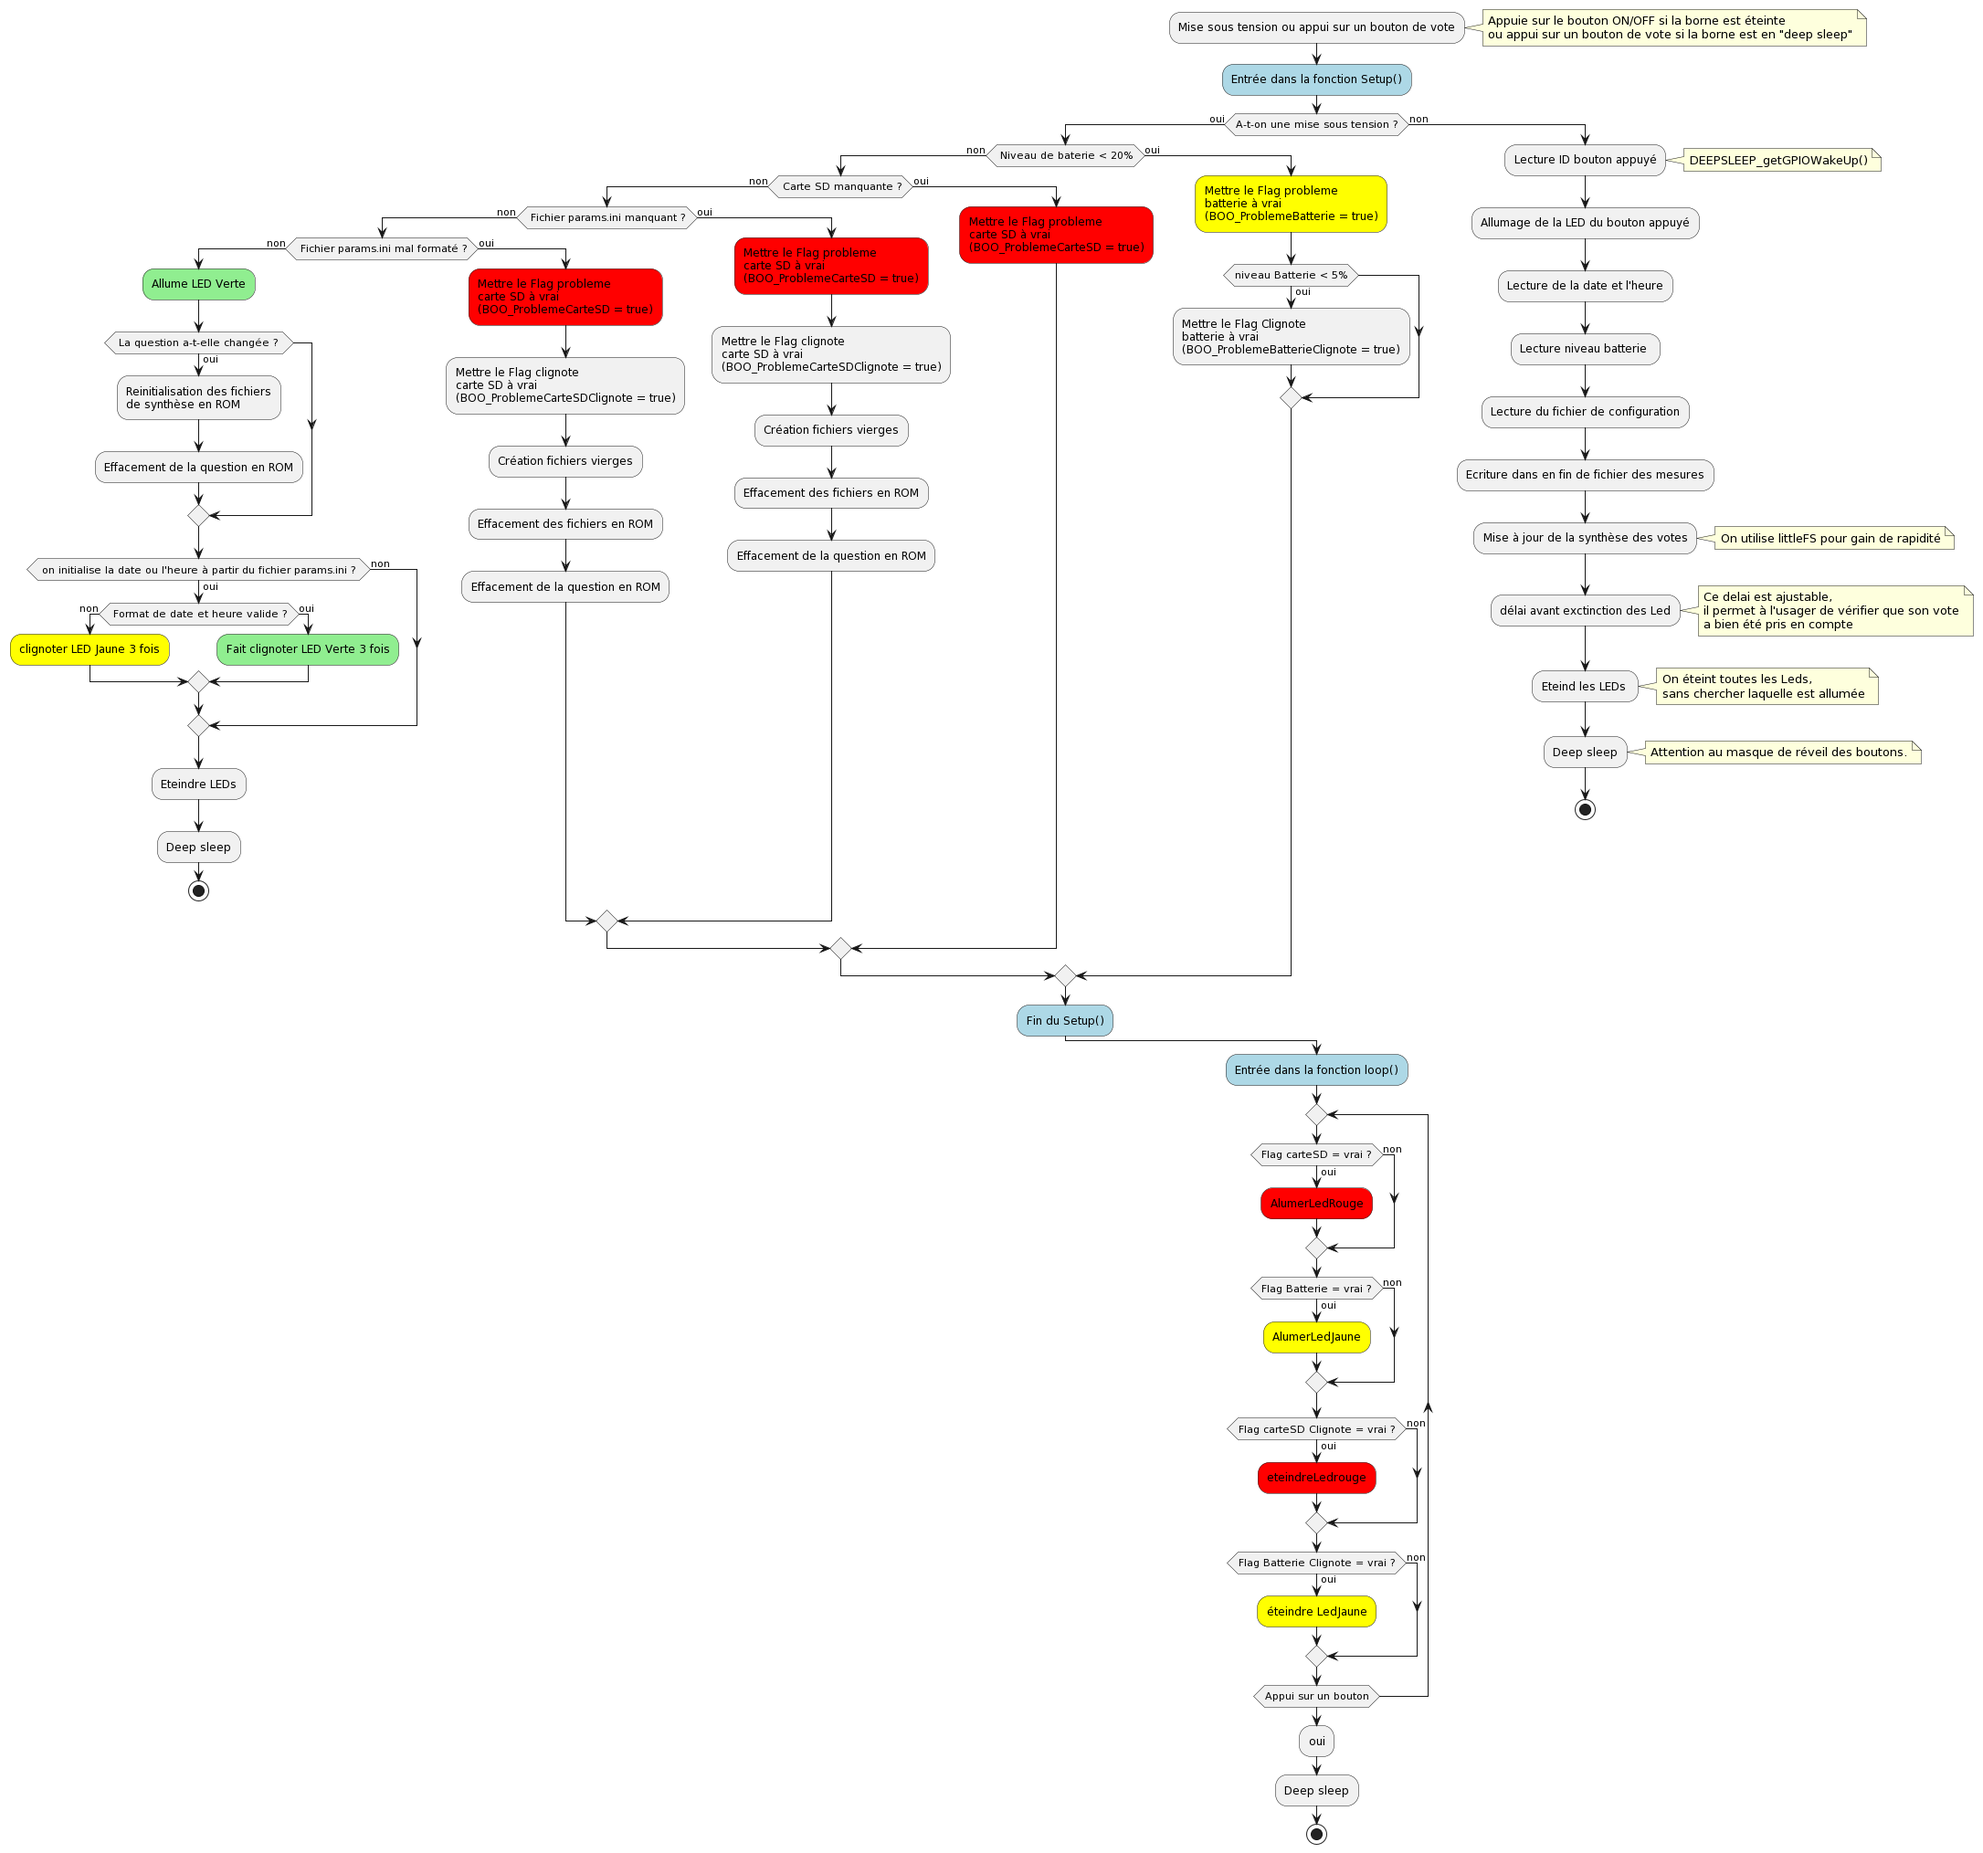
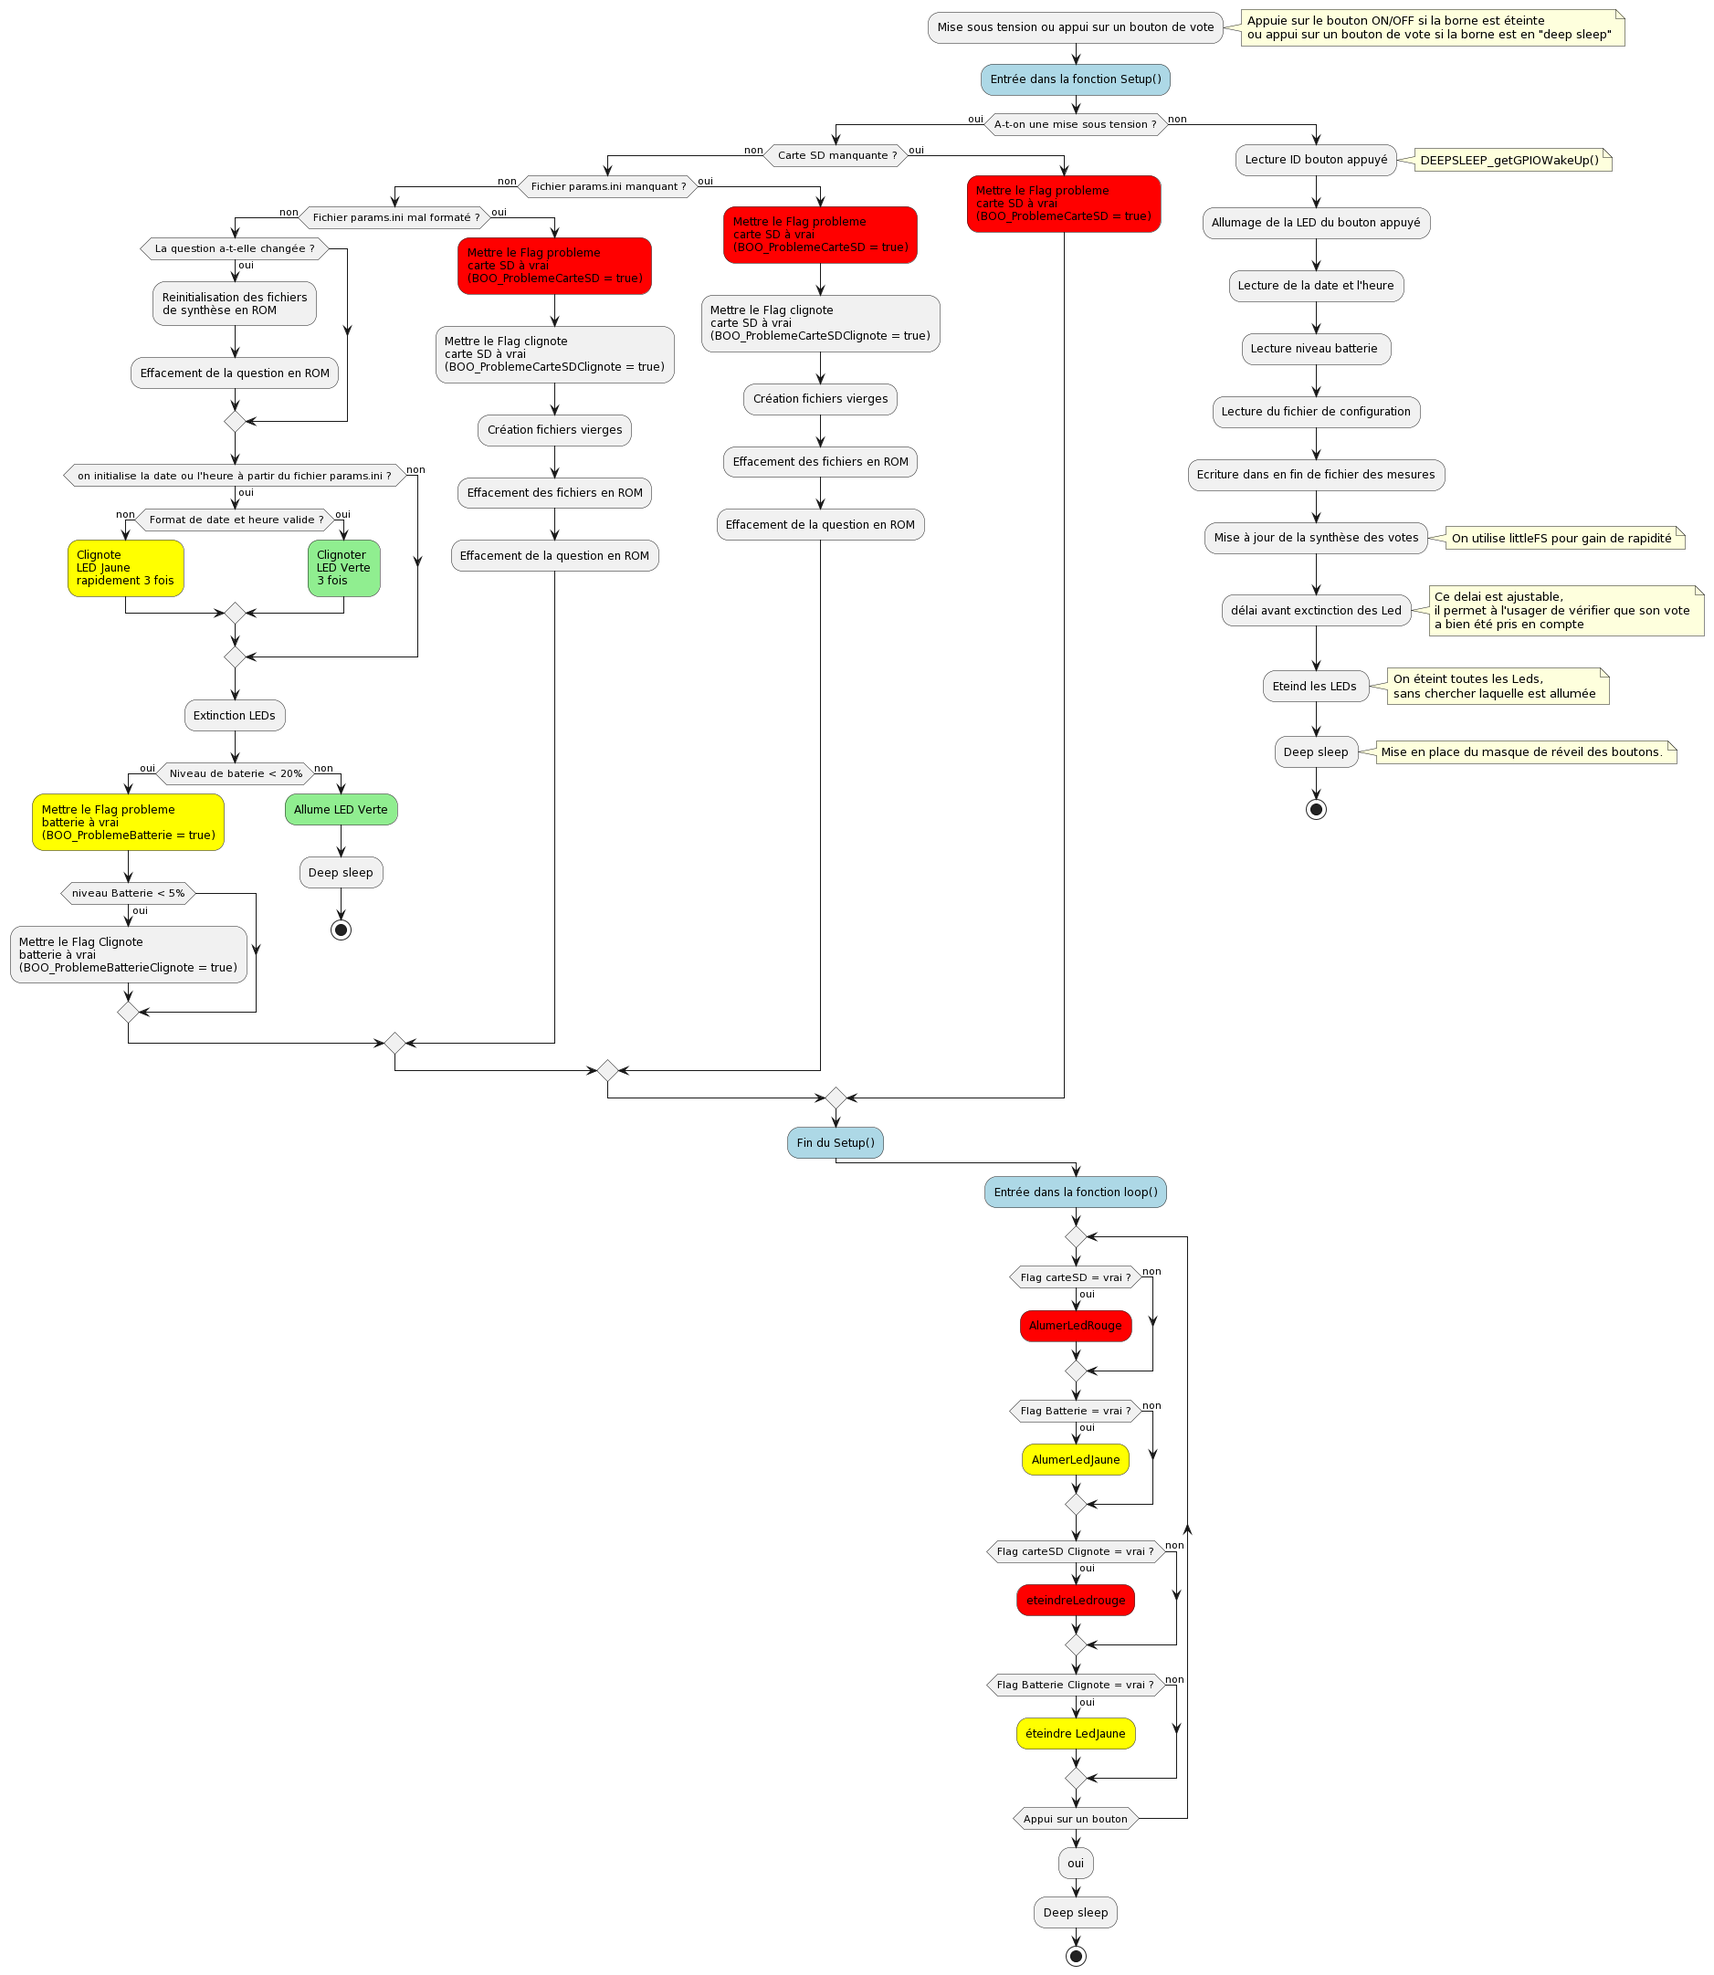
Mise à jour de l'algo pour que le problème de batterie ne soit pas bloquant

Changed region(s): [[0.0, 0.0, 1.0, 0.5278], [0.5562, 0.5589, 0.7107, 0.9936], [0.4635, 0.5278, 0.5871, 0.5899]]

diff --git a/Programmation/Microcontroleur/BorneSatisfaction/deepsleep.h b/Programmation/Microcontroleur/BorneSatisfaction/deepsleep.h
@@ -14,10 +14,12 @@
   @see https://randomnerdtutorials.com/esp32-deep-sleep-arduino-ide-wake-up-sources/
   */
 void DEEPSLEEP_start() {
-  // Calcul du mask de bits pour les GPIO utilisés par les boutons
-  int somme = pow(2, BTN_ROUGE) + pow(2, BTN_VERT) + pow(2, BTN_JAUNE); // 33554432 + 67108864 + 268435456 = 234881024
-  String chaine = "0x" + String( somme, HEX);
-  DEBUG("Masque de réveille pour le deep sleep :" + chaine);
+  #ifdef ModeDebug
+    // Calcul du mask de bits pour les GPIO utilisés par les boutons
+    int somme = pow(2, BTN_ROUGE) + pow(2, BTN_VERT) + pow(2, BTN_JAUNE); // 33554432 + 67108864 + 268435456 = 234881024
+    String chaine = "0x" + String( somme, HEX);
+    DEBUG("Masque de réveille pour le deep sleep :" + chaine);
+  #endif
 
   // On authorise l'appuie sur les boutons à réveiller l'ESP32
   esp_sleep_enable_ext1_wakeup(0xe000000, ESP_EXT1_WAKEUP_ANY_HIGH);

diff --git a/Programmation/Microcontroleur/BorneSatisfaction/carteSD.h b/Programmation/Microcontroleur/BorneSatisfaction/carteSD.h
@@ -2,7 +2,7 @@
  * @file carteSD.h
  * @brief contains all function for SD card purpose.
  * @date 2022-05-10
-   @author : Alexandre PERETJATKO
+   @author Alexandre PERETJATKO
  * 
  * @version 1.0.2
  */

diff --git a/Programmation/Microcontroleur/BorneSatisfaction/Batterie.h b/Programmation/Microcontroleur/BorneSatisfaction/Batterie.h
@@ -32,5 +32,6 @@ int BATTERIE_getBatterieLevel() {
   if( pourcent > 100 ) {
     return 100;
   }
+
   return pourcent;
 }
